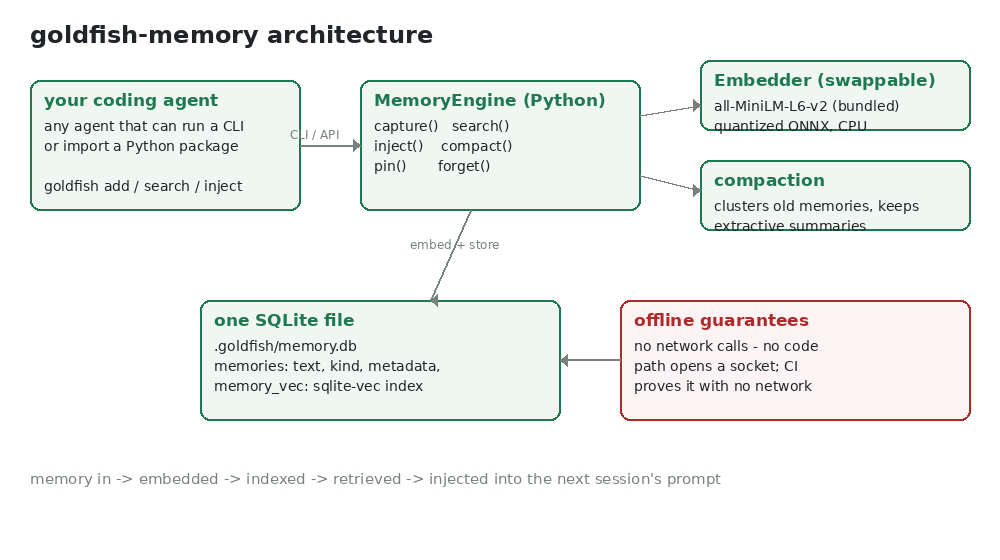
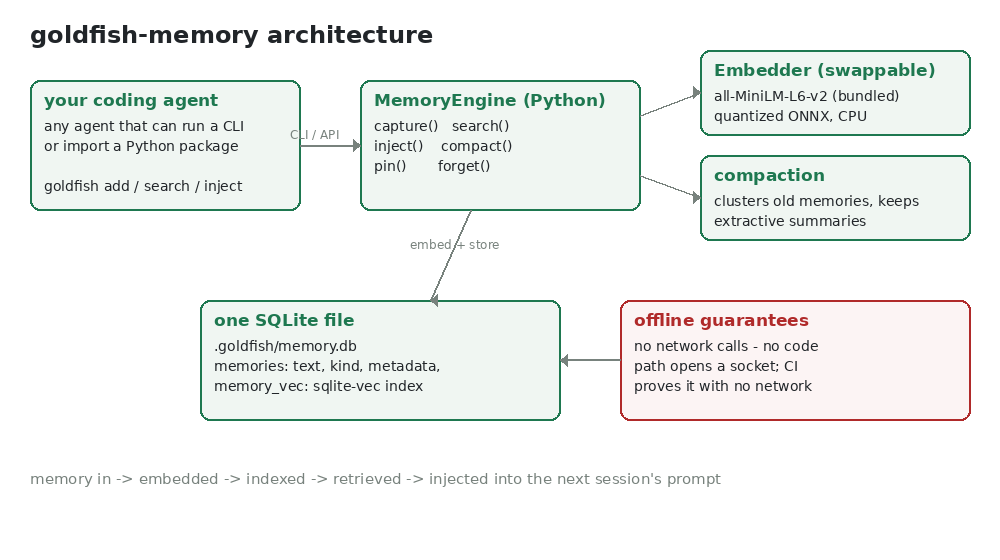
Fix CI: ruff errors in scripts, offline-proof python resolution; regenerate diagram (no text clipping)
- ruff check + ruff format clean across repo (SKILL.md code block, benchmark, render_demo, render_diagram)
- offline-proof job: resolve setup-python's interpreter/console-script absolute paths so sudo's PATH reset can't pick a python without pytest
- architecture.png: taller Embedder/compaction boxes; text no longer clipped at box bottoms

Changed region(s): [[0.682, 0.2732, 0.961, 0.4554], [0.651, 0.0911, 0.992, 0.2429], [0.651, 0.3036, 0.682, 0.3339]]

diff --git a/scripts/render_diagram.py b/scripts/render_diagram.py
@@ -20,7 +20,7 @@ SANS = "/usr/share/fonts/truetype/dejavu/DejaVuSans.ttf"
 
 
 def box(d, xy, title, lines, fill=BOX, outline=ACCENT, title_color=ACCENT):
-    x0, y0, x1, y1 = xy
+    x0, y0 = xy[0], xy[1]
     d.rounded_rectangle(xy, 10, fill=fill, outline=outline, width=2)
     d.text((x0 + 14, y0 + 10), title, font=ImageFont.truetype(SANS_B, 17), fill=title_color)
     f = ImageFont.truetype(SANS, 14)
@@ -44,43 +44,80 @@ def render(out: Path) -> None:
     d = ImageDraw.Draw(img)
     d.text((30, 20), "goldfish-memory architecture", font=ImageFont.truetype(SANS_B, 24), fill=INK)
 
-    box(d, (30, 80, 300, 210), "your coding agent", [
-        "any agent that can run a CLI",
-        "or import a Python package",
-        "",
-        "goldfish add / search / inject",
-    ])
-    box(d, (360, 80, 640, 210), "MemoryEngine (Python)", [
-        "capture()   search()",
-        "inject()    compact()",
-        "pin()       forget()",
-    ])
-    box(d, (700, 60, 970, 130), "Embedder (swappable)", [
-        "all-MiniLM-L6-v2 (bundled)",
-        "quantized ONNX, CPU",
-    ])
-    box(d, (700, 160, 970, 230), "compaction", [
-        "clusters old memories, keeps",
-        "extractive summaries",
-    ])
-    box(d, (200, 300, 560, 420), "one SQLite file", [
-        ".goldfish/memory.db",
-        "memories: text, kind, metadata,",
-        "memory_vec: sqlite-vec index",
-    ])
-    box(d, (620, 300, 970, 420), "offline guarantees", [
-        "no network calls - no code",
-        "path opens a socket; CI",
-        "proves it with no network",
-    ], fill=(252, 244, 244), outline=WARN, title_color=WARN)
+    box(
+        d,
+        (30, 80, 300, 210),
+        "your coding agent",
+        [
+            "any agent that can run a CLI",
+            "or import a Python package",
+            "",
+            "goldfish add / search / inject",
+        ],
+    )
+    box(
+        d,
+        (360, 80, 640, 210),
+        "MemoryEngine (Python)",
+        [
+            "capture()   search()",
+            "inject()    compact()",
+            "pin()       forget()",
+        ],
+    )
+    box(
+        d,
+        (700, 50, 970, 135),
+        "Embedder (swappable)",
+        [
+            "all-MiniLM-L6-v2 (bundled)",
+            "quantized ONNX, CPU",
+        ],
+    )
+    box(
+        d,
+        (700, 155, 970, 240),
+        "compaction",
+        [
+            "clusters old memories, keeps",
+            "extractive summaries",
+        ],
+    )
+    box(
+        d,
+        (200, 300, 560, 420),
+        "one SQLite file",
+        [
+            ".goldfish/memory.db",
+            "memories: text, kind, metadata,",
+            "memory_vec: sqlite-vec index",
+        ],
+    )
+    box(
+        d,
+        (620, 300, 970, 420),
+        "offline guarantees",
+        [
+            "no network calls - no code",
+            "path opens a socket; CI",
+            "proves it with no network",
+        ],
+        fill=(252, 244, 244),
+        outline=WARN,
+        title_color=WARN,
+    )
 
     arrow(d, (300, 145), (360, 145), "CLI / API")
-    arrow(d, (640, 115), (700, 105))
-    arrow(d, (640, 175), (700, 190))
+    arrow(d, (640, 115), (700, 92))
+    arrow(d, (640, 175), (700, 197))
     arrow(d, (470, 210), (430, 300), "embed + store")
     arrow(d, (620, 360), (560, 360))
-    d.text((30, 470), "memory in -> embedded -> indexed -> retrieved -> injected into the next session's prompt",
-           font=ImageFont.truetype(SANS, 15), fill=EDGE)
+    d.text(
+        (30, 470),
+        "memory in -> embedded -> indexed -> retrieved -> injected into the next session's prompt",
+        font=ImageFont.truetype(SANS, 15),
+        fill=EDGE,
+    )
     img.save(out)
     print(f"wrote {out}")
 

diff --git a/scripts/benchmark.py b/scripts/benchmark.py
@@ -42,11 +42,13 @@ TOPICS = {
 # entries in the store. Each query asks for exactly that fact. This is what
 # real recall looks like; the repetitive filler is just the haystack.
 NEEDLES = {
-    "database": "migration safety rule: always run schema migrations inside a transaction with a tested rollback",
+    "database": "migration safety rule: always run schema migrations "
+    "inside a transaction with a tested rollback",
     "frontend": "mobile layout fix: the sidebar collapses below 768px using the useMediaQuery hook",
     "auth": "refresh tokens live in httpOnly cookies and rotate every 24 hours",
     "deploy": "release pipeline fact: canary deploys go to 5 percent of traffic for 30 minutes",
-    "testing": "flaky test fact: test_checkout_total is order-dependent because of the shared cart fixture",
+    "testing": "flaky test fact: test_checkout_total is order-dependent "
+    "because of the shared cart fixture",
     "billing": "payment retry rule: failed invoices retry at 3, 5, and 7 days before cancellation",
     "cache": "cache expiry fact: session cache entries expire after 900 seconds of idle time",
     "api": "status code rule: the export endpoint returns 202 with a job id while processing",
@@ -88,7 +90,7 @@ def build_store(engine: MemoryEngine, n: int, seed: int = 0) -> dict[str, list[i
     for start in range(0, total, 256):
         chunk = texts[start : start + 256]
         vectors = engine.embedder.embed(chunk)
-        for text, topic, vec in zip(chunk, topics[start : start + 256], vectors):
+        for text, topic, vec in zip(chunk, topics[start : start + 256], vectors, strict=True):
             mid = engine.db.add(Memory(content=text, kind="note"), vec)
             topic_ids[topic].append(mid)
     return topic_ids

diff --git a/scripts/render_demo.py b/scripts/render_demo.py
@@ -64,7 +64,9 @@ def render(out: Path) -> None:
     frames: list[Image.Image] = []
     history: list[tuple[str, tuple[int, int, int], ImageFont.FreeTypeFont]] = []
 
-    def frame(lines: list[tuple[str, tuple[int, int, int], ImageFont.FreeTypeFont]], repeat: int = 1) -> None:
+    Line = tuple[str, tuple[int, int, int], ImageFont.FreeTypeFont]
+
+    def frame(lines: list[Line], repeat: int = 1) -> None:
         img = Image.new("RGB", (W, H), BG)
         d = ImageDraw.Draw(img)
         d.rounded_rectangle((0, 0, W - 1, 34), 8, fill=(43, 46, 56))
@@ -85,8 +87,8 @@ def render(out: Path) -> None:
         text = "$ " + cmd
         for i in range(len("$ "), len(text) + 1, 2):
             typed = text[:i]
-            frame(history + [(typed + "▌", PROMPT, font_b)])
-        frame(history + [(text, PROMPT, font_b)], repeat=3)
+            frame([*history, (typed + "▌", PROMPT, font_b)])
+        frame([*history, (text, PROMPT, font_b)], repeat=3)
         history.append(("$ " + cmd, PROMPT, font_b))
         for line in output:
             history.append((line, FG, font))

diff --git a/SKILL.md b/SKILL.md
@@ -47,11 +47,11 @@ The embedding model is bundled; no provisioning, no API keys, works offline.
 ```python
 from goldfish_memory import MemoryEngine
 
-with MemoryEngine() as engine:                     # .goldfish/memory.db by default
+with MemoryEngine() as engine:  # .goldfish/memory.db by default
     engine.capture("Chose X over Y because ...", kind="decision")
     hits = engine.search("why did we pick X?", k=5)
     block = engine.inject("refactor the storage layer", k=6, max_tokens=800)
-    print(block.text)                              # markdown, token-budgeted
+    print(block.text)  # markdown, token-budgeted
 ```
 
 Custom model: pass any `Embedder` implementation, or set `GOLDFISH_MODEL_DIR` to a directory with `model.onnx` + `tokenizer.json`. Models are never downloaded at runtime.
